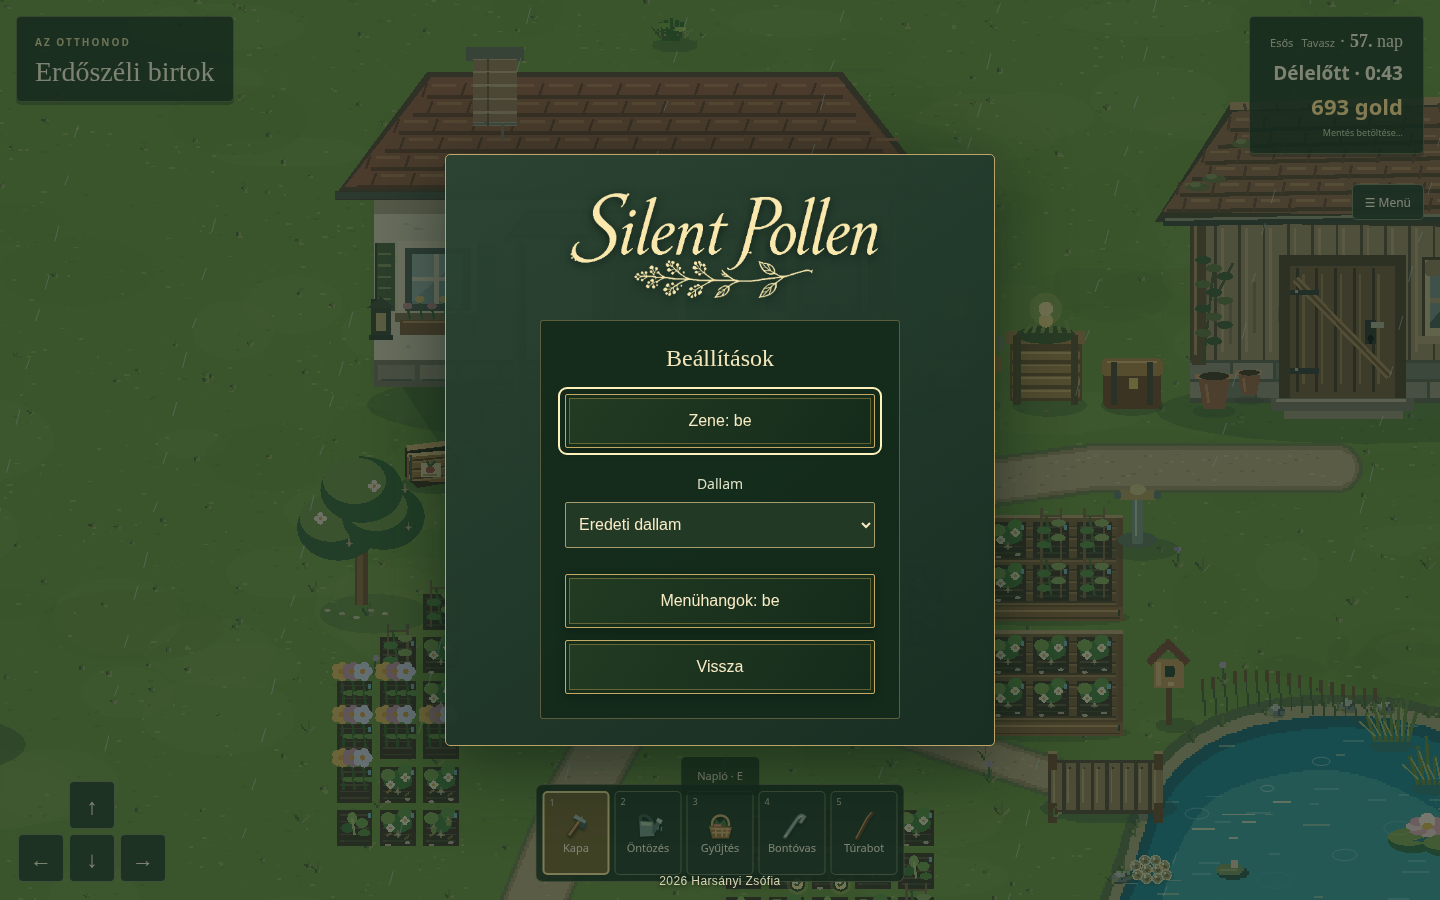
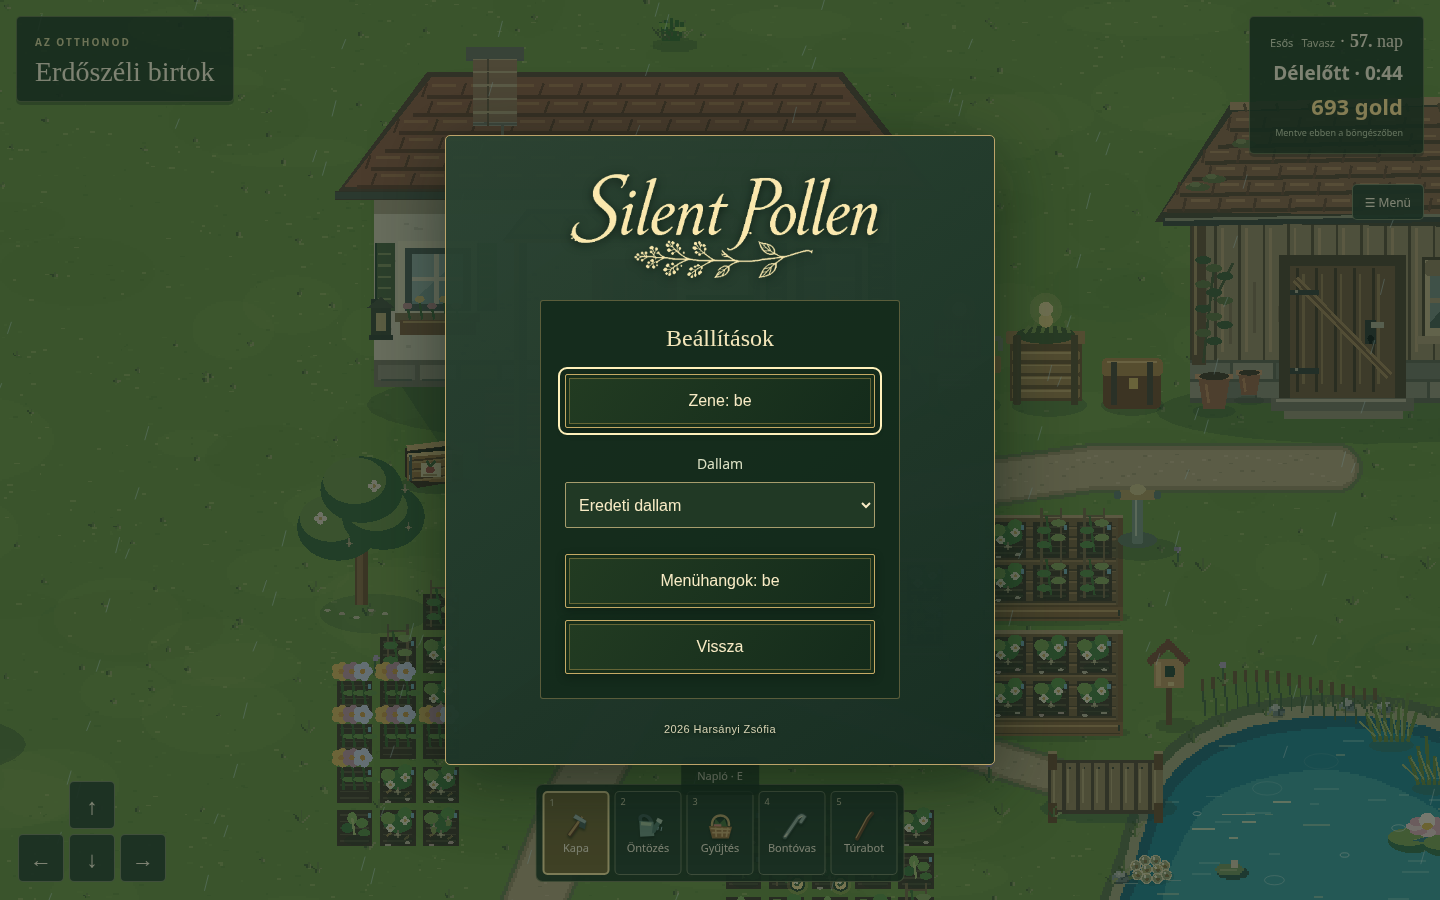
Refresh controls guide and match informational windows to pause menu styling

diff --git a/src/main.ts b/src/main.ts
@@ -76,6 +76,7 @@ let workshopIsKnown=false;
 const story="Sam egy kutatólaborban dolgozott, ahol rovarokon élősködő gombákat vizsgáltak.\n\nAz utolsó hónapokban egy szokatlan minta érkezett a laborba. Az eredmények nem illettek ahhoz, amit addig tudtak. Sam még azelőtt eljött, hogy kiderült volna, mit találtak.\n\n„Szeretném megtudni, képes vagyok-e a saját kezemmel otthont teremteni ezen a helyen.”";
 function showDialogue(title:string,text:string,label='A BIRTOKON'){
  if(['IRÁNYÍTÁS','A RÉGI MŰHELY','EGY KEDVES SZÓ'].includes(label))text=workshopText(text,workshopIsKnown);label=workshopText(label,workshopIsKnown);
+ document.querySelector('#research-panel')!.classList.remove('controls-guide');
  release();dialogue.querySelector('.machine-petals')?.remove();delete dialogue.dataset.presentation;delete dialogue.dataset.speaker;document.querySelector<HTMLElement>('#speaker')!.hidden=true;document.querySelector('#speaker-portrait')!.replaceChildren();
  document.querySelector<HTMLButtonElement>('#sleep')!.hidden=true;
  document.querySelector<HTMLButtonElement>('#export-save')!.hidden=true;
@@ -88,8 +89,16 @@ function showDialogue(title:string,text:string,label='A BIRTOKON'){
  document.querySelector('#dialogue-label')!.textContent=label;
  if(!dialogue.open)dialogue.showModal();
 }
-document.querySelector('#story')!.addEventListener('click',()=>showDialogue('',story,''));
-document.querySelector('#help')!.addEventListener('click',()=>showDialogue('Lassan, a saját tempódban.','Mozgás: WASD, nyilak vagy a képernyő iránygombjai. Ugrás: Space. Futás: tartsd a Shiftet. Az ugrás magasabbra és messzebbre visz; akadályokon továbbra sem lehet áthaladni.\n\nA háznál, tónál és melléképületnél az E billentyűvel vagy a megjelenő jelzésre kattintva nézhetsz körül. A napló, a magkatalógus, az eladóláda és a postaláda a világban használható: sétálj oda, majd E vagy kattintás/koppintás.\n\nTakarítás: Kéz (7) a gazhoz, Fejsze (8) az ágakhoz, Csákány (9) a kövekhez. Kattints közelről vagy F. Három nap után, műveletlen helyen újra megjelennek.\n\nKertészkedés: 1–6 vagy az alsó eszközsáv. Kattints egy közeli földkockára, vagy használd az F billentyűt az előtted lévő kockán. Kapa → ültetőanyag → öntözés. A három ágyásban és a szabad rétfoltokon dolgozhatsz.\n\n6 perc nappal után éjszaka lesz. A 2. és 3. éjszakai percben figyelmeztetés érkezik, majd 3:30–4:00 között elfáradsz és otthon ébredsz. A farmon minden holmid biztonságban van. A birtokon kívül 50% eséllyel egy nálad lévő tárgyat (az alap szerszámok és a madárodú kivételével), máskülönben legfeljebb 10 goldot veszítesz. Üres készlet vagy erszény esetén a kiválasztott rablási kísérlet sikertelen. A verandán a Naplóval korábban is lefekhetsz.\n\nA kert és az idő automatikusan mentődik ebben a böngészőben. Az öntözött növények reggel fejlődnek. Éréskor válaszd a Gyűjtés műveletet (3), majd kattints a növényre. A leszedett termények Tab-bal vagy a Menü → Készlet pontban nézhetők meg. A veranda bal oldalán lévő eladóládába teheted a termést. Napzárásig visszavehető, reggel megkapod az árát. Retek: 15, burgonya: 30, borsó: 12 gold/db. A háznál lévő magkatalógusból rendelhetsz (retek 5, burgonya 10, borsó 15 gold/db), másnap a kapu melletti postaládából veheted át. Készlet: Tab; bezárás: Tab vagy Escape. A déli kapun át a faluba sétálhatsz; balra az erdei ösvényen áfonyát gyűjthetsz (E, F vagy koppintás), a bokrok két nap után újrateremnek. A falutéren faiskola, Kertitó Szaküzlet és pihenőpad vár. Az üzletek csak nappal tartanak nyitva, éjszakára bezárnak. A stamina még nincs bekötve.','IRÁNYÍTÁS'));
+document.querySelector('#story')!.addEventListener('click',()=>{showDialogue('Történet',story,'');dialogue.dataset.presentation='story';});
+document.querySelector('#help')!.addEventListener('click',()=>{
+ showDialogue('Irányítás','WASD / nyilak · mozgás\nShift · futás\nSpace · ugrás / kitérés','');dialogue.dataset.presentation='controls';
+ const panel=document.querySelector<HTMLElement>('#research-panel')!;panel.replaceChildren();panel.hidden=false;panel.classList.add('controls-guide');
+ for(const [title,lines]of [
+  ['Eszközök',['1 · Kapa','2 · Öntözés','3 · Gyűjtés','4 · Bontóvas','5 · Túrabot (ha már nálad van)']],
+  ['Használat',['Kattintás · művelet a kijelölt helyen','F · művelet a karakter előtt','E · közeli tárgy vagy szereplő','Ültetőanyagot és lehelyezhető tárgyat a Készletben választhatsz.']],
+  ['Ablakok',['Tab · Készlet megnyitása / bezárása','Esc · ablak bezárása','Esc a kertben · Főmenü megnyitása']]
+ ]as const){const section=document.createElement('section'),heading=document.createElement('h3'),list=document.createElement('ul');heading.textContent=title;for(const line of lines){const item=document.createElement('li');item.textContent=line;list.append(item);}section.append(heading,list);panel.append(section);}
+});
 const held=new Set<string>();
 const movementInput=new MovementInput();
 window.addEventListener('keydown',event=>movementInput.keyDown(event),true);

diff --git a/src/menu.css b/src/menu.css
@@ -80,3 +80,22 @@
 @media(max-width:600px){#dialogue[data-menu]{padding-bottom:44px!important}.menu-logo{width:100%;max-width:400px}.menu-pollen{width:calc(var(--size)*.72);height:calc(var(--size)*.874);opacity:.8}#dialogue[data-menu="pause"],#dialogue[data-menu="settings"][data-menu-origin="pause"]{padding:20px!important}.menu-credits{font-size:11px!important}}
 
 @media(max-width:600px){.menu-pollen[data-grain="1"]{top:12%!important;left:79%!important}}
+
+#dialogue[data-menu][data-menu-origin="pause"] .menu-credits{position:static;inset:auto;margin:22px 0 0;font-size:11px;line-height:1.5}
+#dialogue[data-presentation="controls"]{inset:0;margin:auto;width:min(690px,calc(100vw - 28px));height:fit-content;max-height:calc(100dvh - 32px)}
+#dialogue[data-presentation="controls"] #dialogue-text{font-size:15px;line-height:1.8;margin-bottom:18px}
+#research-panel.controls-guide{display:grid;grid-template-columns:1fr 1.25fr;gap:18px 28px;padding-top:16px}
+.controls-guide h3{font-size:16px;font-weight:600;color:#f3dfaa;margin:0 0 10px}
+.controls-guide ul{list-style:none;padding:0;margin:0}
+.controls-guide li{font-size:14px;line-height:1.7;color:#e5e6d1;margin:0 0 7px}
+@media(max-width:500px){#research-panel.controls-guide{grid-template-columns:1fr;gap:14px}.controls-guide h3{margin-bottom:6px}.controls-guide li{margin-bottom:4px}}
+
+/* Informational windows share the pause menu's materials and humanist type. */
+#dialogue:is([data-presentation="controls"],[data-presentation="story"]){inset:0;margin:auto;width:min(690px,calc(100vw - 32px));height:fit-content;max-height:calc(100dvh - 48px);padding:28px 32px;border:1px solid #bda46a;border-radius:5px;background:linear-gradient(145deg,#2b4332f7,#172e23fc);box-shadow:0 16px 70px #07170e90;font-family:'Trebuchet MS','Segoe UI',sans-serif;color:#f0e8ce}
+#dialogue:is([data-presentation="controls"],[data-presentation="story"])::backdrop{background:#07170d80}
+#dialogue:is([data-presentation="controls"],[data-presentation="story"]) #dialogue-title{font:400 27px/1.3 'Trebuchet MS','Segoe UI',sans-serif;color:#f4e6b0;margin:0 0 20px;padding-bottom:16px;border-bottom:1px solid #bda46a50}
+#dialogue:is([data-presentation="controls"],[data-presentation="story"]) #dialogue-text{font:16px/1.8 'Trebuchet MS','Segoe UI',sans-serif;color:#e5e6d1}
+#dialogue:is([data-presentation="controls"],[data-presentation="story"]) #dialogue-close{font:16px 'Trebuchet MS','Segoe UI',sans-serif;color:#f8ebc5;background:linear-gradient(125deg,#233c22f2,#142b1bf5);border:1px solid #c5aa65;border-radius:2px;box-shadow:inset 0 0 0 3px #172e1a,inset 0 0 0 4px #ac944b80,0 3px 8px #05120c66;min-height:48px;min-width:130px;margin-top:20px}
+#dialogue:is([data-presentation="controls"],[data-presentation="story"]) #dialogue-close:hover{background:linear-gradient(125deg,#3b502cf5,#243e24f5)}
+#dialogue[data-presentation="controls"] #research-panel{border-top:0;padding-top:0}
+@media(max-width:500px){#dialogue:is([data-presentation="controls"],[data-presentation="story"]){padding:22px;max-height:calc(100dvh - 32px)}#dialogue:is([data-presentation="controls"],[data-presentation="story"]) #dialogue-text{font-size:14px;line-height:1.75}#dialogue:is([data-presentation="controls"],[data-presentation="story"]) #dialogue-title{font-size:24px}}

diff --git a/docs/jatekterv.md b/docs/jatekterv.md
@@ -823,3 +823,9 @@ Amikor Sam először közel sétál valóban sikertelen terméskötődést mutat
 - Nagyobb, világos, finom szőrös/tüskés peremű pollenszerű alakzatok kerültek a lencsébe. A sodródás jól észrevehetőbb, de lassú marad; a méret és az áttetszőség finoman lüktet. A háttér sejtrétege lassan elmozdul és tágul/szűkül. A csökkentett mozgás és a háttérben álló menü továbbra is tiszteletben marad.
 - A Főmenü és a Menü esetén a **képernyő legalján „2026 Harsányi Zsófia”** látható. A verziószám helye elő van készítve (`#menu-version`), de még nincs megjelenített verziószám; a verziózást később vezetjük be.
 - Böngészős ellenőrzés: a Menü és a belőle megnyitott Beállítások nem teljes képernyősek; asztali és mobil nézet, ESC-visszalépés, ugrás/fókusz, meglévő mentés megnyitása, menüváltások és mozgáscsökkentés. Képkockák között külön ellenőrzött helyzet-, méret- és áttetszőség-változás. Animált előnézet: `docs/concepts/silent-pollen-menu-motion.gif`.
+
+
+### Menü lábléce és tájékoztató ablakok — 2026. október 28.
+- A „2026 Harsányi Zsófia” felirat a kisebb Menüben és annak Beállításaiban az **ablak aljára** kerül; a teljes képernyős Főmenüben továbbra is a képernyő alján marad. A verziószám továbbra sincs még kitöltve.
+- Az Irányítás elavult, hosszú magyarázata helyett rövid vázlat szerepel: mozgás/futás/ugrás, a jelenlegi öt eszköz, kattintás/F/E, Készlet és ESC. Régi Kéz/Fejsze/Csákány gyorsbillentyűk, árak, küldetési útmutatók és elavult újratermési szövegek nem szerepelnek benne. Címe „Irányítás”, ismétlődő felső címke nincs.
+- A Történet és az Irányítás kisebb ablakai a Menü sötétzöld felületét, aranyszegélyét, árnyékát, Trebuchet MS / Segoe UI betűcsaládját és Vissza gombját használják. A Történet elfogadott szövege változatlan, az ablak címe „Történet”; felső ismétlődő címke itt sincs.
